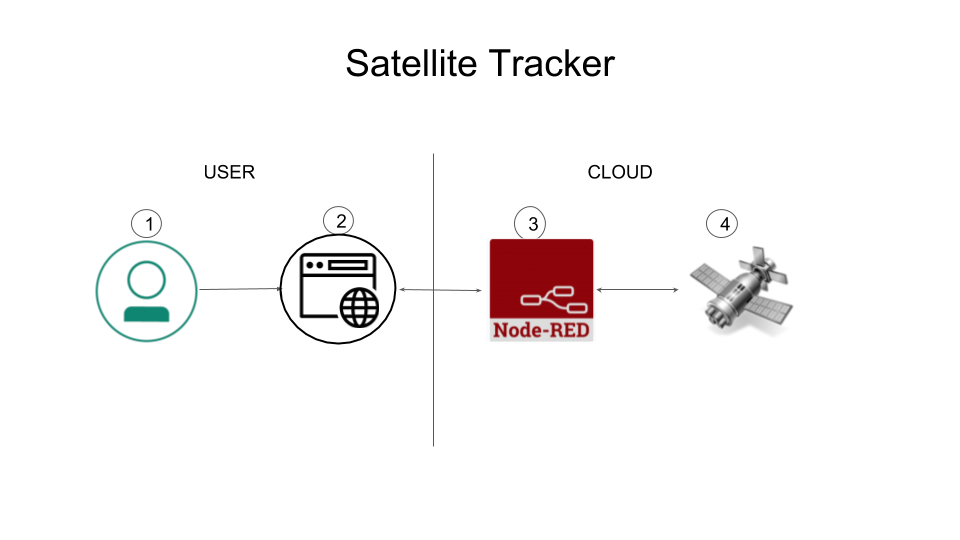
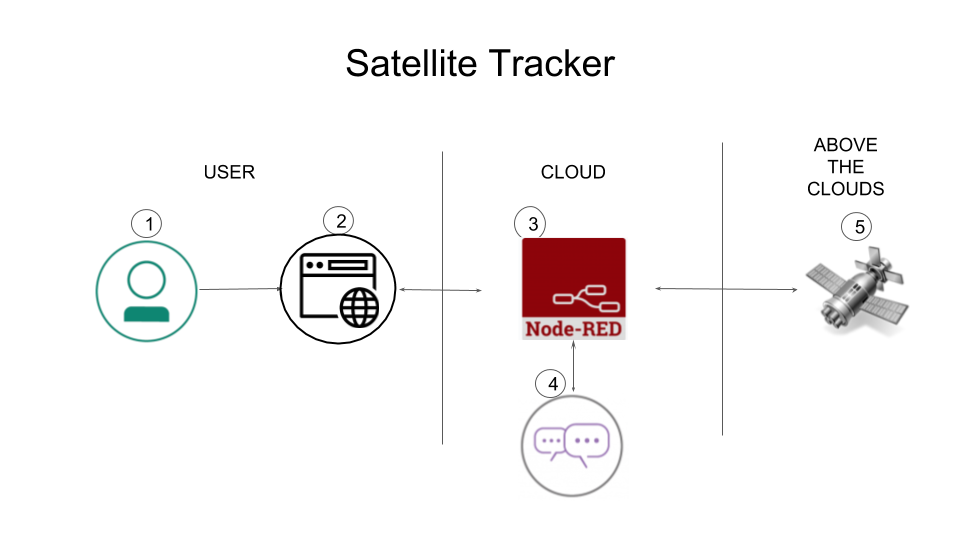
Update arch diagram so that satellite is above the clouds. (#18)

diff --git a/README.md b/README.md
@@ -17,7 +17,8 @@ When the reader has completed this Code Pattern, they will understand how to:
 1. User interacts with Web UI to query the chat bot "Where is the ISS?".
 2. Web UI communicates with Node-RED running on IBM Cloud.
 3. Node-RED app running on the cloud processes info and performs HTTP requests.
-4. Satellites orbiting the earth send position info which is streamed to Node-RED module.
+4. The Node-RED app communicates with Watson Assistant to extract intents and entities.
+5. Satellites orbiting the earth send position info which is streamed to Node-RED module.
 
 ## Included components
 
